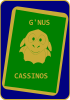
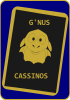
Alterado quase todas as imagens para satisfazer visualmente os quesitos do professor Kaio e da professora DANI

diff --git a/Codigos/Jogo21/TelaJogo21.py b/Codigos/Jogo21/TelaJogo21.py
@@ -737,7 +737,7 @@ imagem5.place(x=670,y=60)
 
 #carteira
 carteira=Label(janela)
-cimg=PhotoImage(file=r"image\carteira.png")
+cimg=PhotoImage(file=r"image\carteira2.png")
 carteira['image']=cimg
 carteira['bg']="#006400"
 carteira.place(x=790,y=20)
@@ -746,13 +746,13 @@ qtdcarteira=Label(janela)
 qtdcartimg=PhotoImage(file=r"image\qtdcarteira.png")
 qtdcarteira['image']=qtdcartimg
 qtdcarteira['bg']="#006400"
-qtdcarteira.place(x=698,y=38)
+qtdcarteira.place(x=702,y=47)
 
 saldo_carteira_lb=Label(janela)
 saldo_carteira_lb['text']="%.2f"%saldo_carteira
 saldo_carteira_lb['bg']="#C8AB37"
 saldo_carteira_lb['font']="Arial",12,"bold"
-saldo_carteira_lb.place(x=710,y=45)
+saldo_carteira_lb.place(x=710,y=54)
 #fim carteira
 
 #label mostrador da maquina
